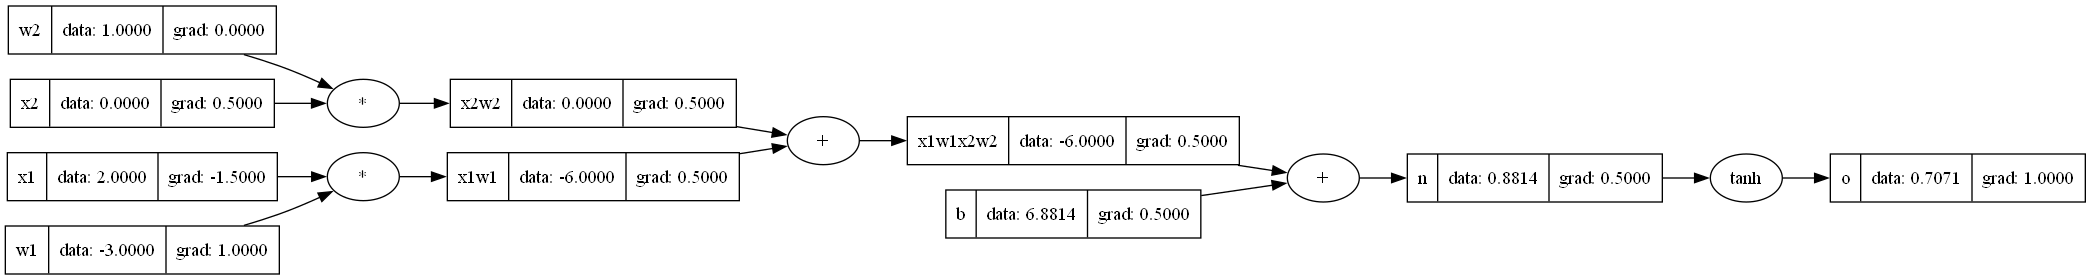
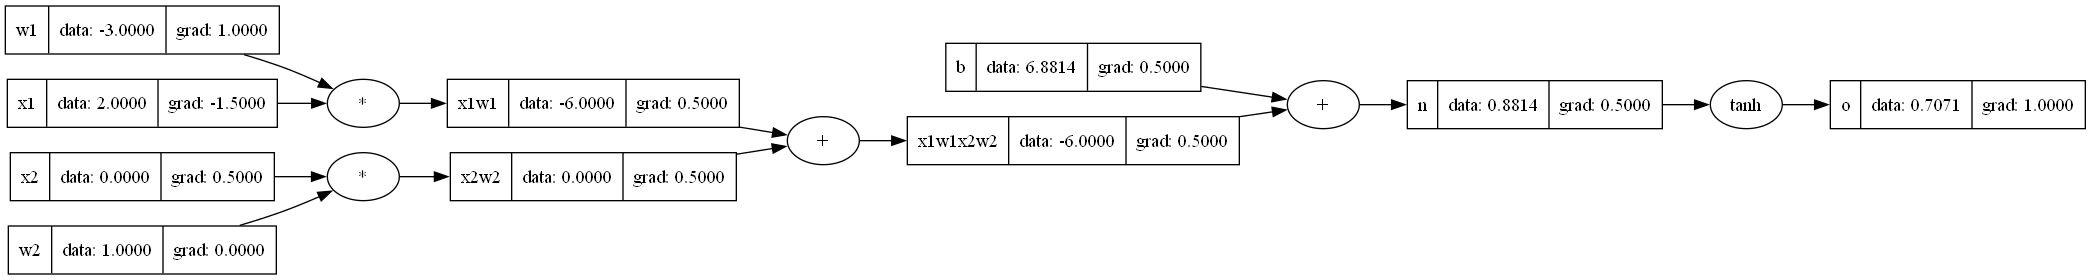
Added a backward function inside add, mul, tanh

diff --git a/micrograd.py b/micrograd.py
@@ -9,6 +9,7 @@ class Value:
         self.data = data
         self._prev = set(_children)
         self._op = _op
+        self._backward = lambda: None
         self.grad = 0.0
         self.label = label
 
@@ -17,17 +18,37 @@ class Value:
 
     def __add__(self, other):
         out = Value(self.data + other.data, (self, other), _op = '+')
+        
+        def _backward():
+            self.grad += 1.0 * out.grad
+            other.grad += 1.0*out.grad
+        out._backward = _backward
+
         return out
     
     def __mul__(self, other):
         out = Value(self.data * other.data, (self, other), _op = '*')
+
+        def _backward():
+            self.grad = out.grad * other.data
+            other.grad = out.grad * self.data
+        out._backward = _backward
+
         return out
     
     def tanh(self):
         x = self.data
         t = ((math.exp(2*x)-1)/(math.exp(2*x)+1))
         out = Value(t, (self, ), 'tanh')
+
+        def _backward():
+            self.grad = (1 - t**2) * out.grad
+        out._backward = _backward
+
         return out
+
+    
+
 
 # Inputs
 x1 = Value(2.0, label='x1')
@@ -49,7 +70,7 @@ o = n.tanh(); o.label='o'
 o.grad = 1.0
 
 # Gradients
-n.grad = (1 - o.data**2) * o.grad 
+"""n.grad = (1 - o.data**2) * o.grad 
 b.grad = 1 * n.grad
 x1w1x2w2.grad = 1 * n.grad
 x1w1.grad = 1.0 * x1w1x2w2.grad
@@ -57,7 +78,13 @@ x2w2.grad = 1.0 * x1w1x2w2.grad
 x1.grad = w1.data * x1w1.grad
 w1.grad = x1.data * x1w1.grad
 x2.grad = w2.data * x2w2.grad
-w2.grad = x2.data * x2w2.grad
+w2.grad = x2.data * x2w2.grad"""
+
+o._backward()
+n._backward()
+x1w1x2w2._backward()
+x1w1._backward()
+x2w2._backward()
 
 dot = draw_dot(o)
 dot.render('graph_output', format='png', view=True)
